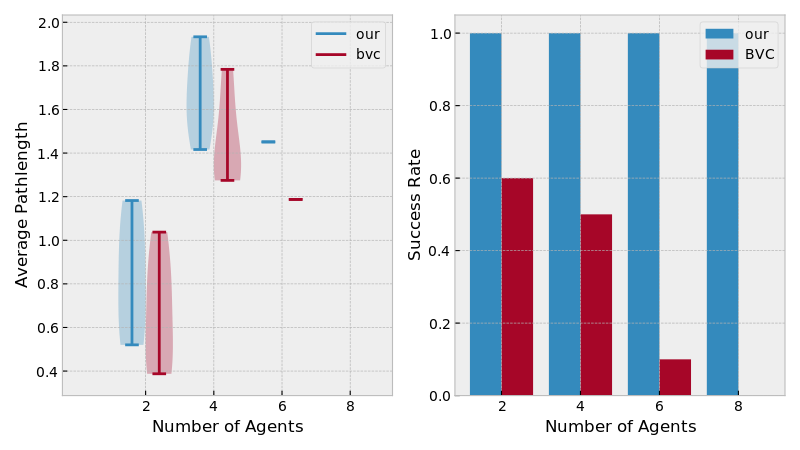
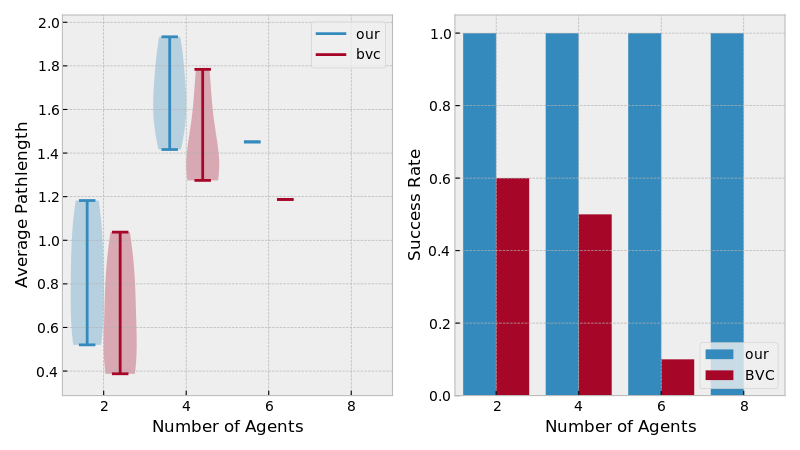
stats plot for dhc, too

diff --git a/multi_optim/comparative_evaluation_vs_dhc.py b/multi_optim/comparative_evaluation_vs_dhc.py
@@ -524,9 +524,11 @@ def plot(figure_folder: str, results_name: str):
         open(f"{figure_folder}/{results_name}_lens.yaml"),
         Loader=yaml.SafeLoader)
     n_agents_s = yaml_data['n_agents_s']
-    lens_our = np.array(yaml_data['lens_our'])
-    lens_dhc_by_edge_len = np.array(yaml_data['lens_dhc_by_edge_len'])
-    lens_dhc_by_nodes = np.array(yaml_data['lens_dhc_by_nodes'])
+    lens_our = np.array(yaml_data['lens_our'], dtype=np.float64)
+    lens_dhc_by_edge_len = np.array(
+        yaml_data['lens_dhc_by_edge_len'], dtype=np.float64)
+    lens_dhc_by_nodes = np.array(
+        yaml_data['lens_dhc_by_nodes'], dtype=np.float64)
 
     # plot
     colors = plt.rcParams['axes.prop_cycle'].by_key()['color']  # type: ignore
@@ -550,6 +552,85 @@ def plot(figure_folder: str, results_name: str):
         axs[i_na].set_title(f"{n_agents=}")
         axs[i_na].legend()
     f.savefig(f"{figure_folder}/{results_name}_lens.png")
+    plt.close(f)
+
+    # plot stats
+    n_samples = np.shape(lens_our)[1]
+    f, axs = plt.subplots(1, 2, figsize=(8, 4.5))
+    assert isinstance(axs, np.ndarray)
+    success_our = np.logical_not(np.isnan(lens_our))
+    success_dhc_by_edge_len = np.logical_not(np.isnan(lens_dhc_by_edge_len))
+    success_dhc_by_nodes = np.logical_not(np.isnan(lens_dhc_by_nodes))
+    diff_vs_dhc_by_edge_len = lens_dhc_by_edge_len - lens_our
+    diff_vs_dhc_by_nodes = lens_dhc_by_nodes - lens_our
+
+    # for i_na, n_agents in enumerate(n_agents_s):
+    #     data_success[0][i_na] = np.count_nonzero(
+    #         lens_our[i_na, :] != 0) / n_samples
+    #     data_success[1][i_na] = np.count_nonzero(
+    #         lens_bvc[i_na, :] != 0) / n_samples
+    #     for i_e in range(n_samples):
+    #         if both_successfull[i_na, i_e]:
+    #             data_lenghts[0][i_na].append(lens_our[i_na, i_e])
+    #             data_lenghts[1][i_na].append(lens_bvc[i_na, i_e])
+    diffs_min_max = [
+        min(min([min(x) for x in diff_vs_dhc_by_edge_len if len(x) > 0]),
+            min([min(x) for x in diff_vs_dhc_by_nodes if len(x) > 0])),
+        max(max([max(x) for x in diff_vs_dhc_by_edge_len if len(x) > 0]),
+            max([max(x) for x in diff_vs_dhc_by_nodes if len(x) > 0]))
+    ]
+    diff_vs_dhc_by_edge_len_list = [list() for _ in range(len(n_agents_s))]
+    diff_vs_dhc_by_nodes_list = [list() for _ in range(len(n_agents_s))]
+    for i_na, n_agents in enumerate(n_agents_s):
+        for i_e in range(n_samples):
+            if success_our[i_na, i_e] and success_dhc_by_edge_len[i_na, i_e]:
+                diff_vs_dhc_by_edge_len_list[i_na].append(
+                    diff_vs_dhc_by_edge_len[i_na, i_e])
+            if success_our[i_na, i_e] and success_dhc_by_nodes[i_na, i_e]:
+                diff_vs_dhc_by_nodes_list[i_na].append(
+                    diff_vs_dhc_by_nodes[i_na, i_e])
+
+    width = .8
+    # lengths
+    axs[0].violinplot(diff_vs_dhc_by_edge_len_list, np.array(n_agents_s)-width/2,
+                      widths=width)
+    axs[0].violinplot(diff_vs_dhc_by_nodes_list, np.array(n_agents_s)+width/2,
+                      widths=width)
+    axs[0].plot(0, 99, color=colors[0], label='dhc_by_edge_len')  # for legend
+    axs[0].plot(0, 99, color=colors[1], label='dhc_by_nodes')  # for legend
+    axs[0].set_xlim(1, max(n_agents_s)+1)
+    axs[0].set_ylim(diffs_min_max[0]-.1, diffs_min_max[1]+.1)
+    axs[0].set_xticks(n_agents_s)
+    axs[0].set_xlabel('Number of Agents')
+    axs[0].set_ylabel('Average Pathlength Difference DHC - Our')
+    axs[0].legend()
+    # success
+    width = 2. / 3.5
+    n_agents_s = np.array(n_agents_s)
+    axs[1].bar(
+        n_agents_s-width,
+        [np.count_nonzero(x)/n_samples for x in success_dhc_by_edge_len],
+        width=width, color=colors[0])
+    axs[1].bar(
+        n_agents_s,
+        [np.count_nonzero(x)/n_samples for x in success_dhc_by_nodes],
+        width=width, color=colors[1])
+    axs[1].bar(
+        n_agents_s+width,
+        [np.count_nonzero(x)/n_samples for x in success_our],
+        width=width, color=colors[2])
+    axs[1].plot(0, 99, color=colors[0], label='dhc_by_edge_len')  # for legend
+    axs[1].plot(0, 99, color=colors[1], label='dhc_by_nodes')  # for legend
+    axs[1].plot(0, 99, color=colors[2], label='our')  # for legend
+    axs[1].set_xlim(1, max(n_agents_s)+1)
+    axs[1].set_ylim(0., 1.04)
+    axs[1].set_xticks(n_agents_s)
+    axs[1].set_xlabel('Number of Agents')
+    axs[1].set_ylabel('Success Rate')
+    axs[1].legend(loc='lower right')
+    # done
+    f.tight_layout()
+    f.savefig(f"{figure_folder}/{results_name}_lens_stats.png")
     plt.close(f)
 
 

diff --git a/multi_optim/comparative_evaluation_vs_bvc.py b/multi_optim/comparative_evaluation_vs_bvc.py
@@ -225,6 +225,7 @@ def plot(figure_folder: str, results_name: str):
                       widths=width)
     axs[0].plot(0, 99, color=colors[0], label='our')  # for legend
     axs[0].plot(0, 99, color=colors[1], label='bvc')  # for legend
+    axs[0].set_xlim(1, max(n_agents_s)+1)
     axs[0].set_ylim(lenghts_min_max[0]-.1, lenghts_min_max[1]+.1)
     axs[0].set_xticks(n_agents_s)
     axs[0].set_xlabel('Number of Agents')
@@ -234,10 +235,11 @@ def plot(figure_folder: str, results_name: str):
                data_success[0], width=width, label='our')
     axs[1].bar(np.array(n_agents_s)+width/2,
                data_success[1], width=width, label='BVC')
+    axs[1].set_xlim(1, max(n_agents_s)+1)
     axs[1].set_xticks(n_agents_s)
     axs[1].set_xlabel('Number of Agents')
     axs[1].set_ylabel('Success Rate')
-    axs[1].legend()
+    axs[1].legend(loc='lower right')
     f.tight_layout()
     f.savefig(f"{figure_folder}/{results_name}_lens_stats.png")
     plt.close(f)
